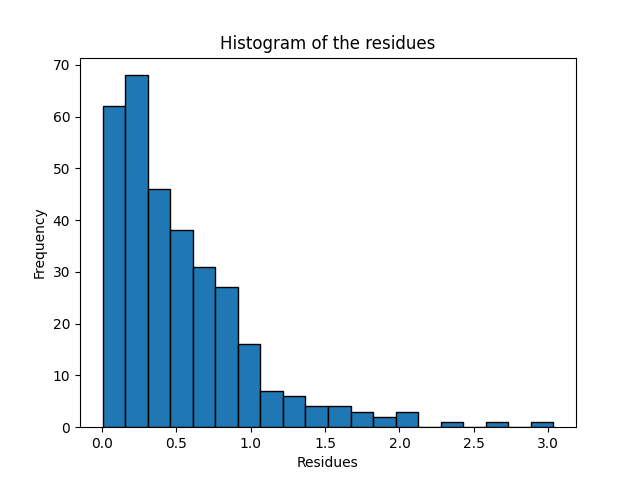
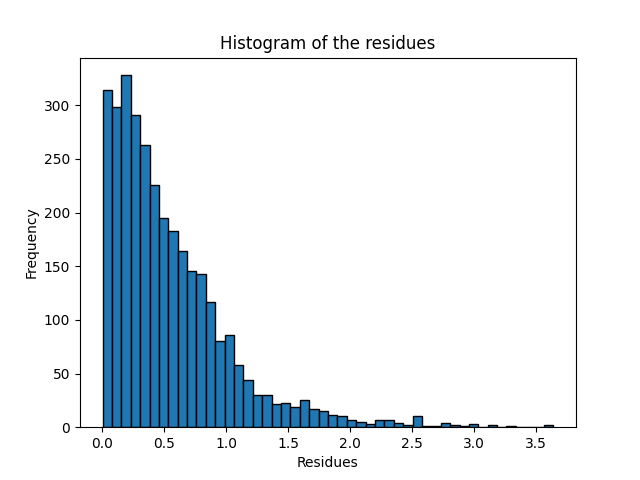
1 acabado no programming e no notebook

diff --git a/Homework3/programming.py b/Homework3/programming.py
@@ -15,7 +15,7 @@ variables_train, variables_test, target_train, target_test= train_test_split(var
 
 ######### Exercise 1 ##########
 
-residues = pd.Series()
+residues = np.array([])
 
 for i in range(1, 11):
     # Learn the MLP regressor 
@@ -23,19 +23,18 @@ for i in range(1, 11):
     #Predict output
     y_pred = mlp.fit(variables_train,target_train).predict(variables_test)
     #Calculate residues
-    print('y_pred shape: ',y_pred.shape)
-    print('target shape: ',target_test.shape)
-    residue = target_test - y_pred
+    residue = abs(target_test - y_pred)
+    residue = residue.to_numpy()
+    residues = np.append(residues, residue)
     
 
-print(residues.shape)
-# Plot all the residues
-# plt.hist(residues, edgecolor='black',bins=20)
-# plt.title('Histogram of the residues')
-# plt.xlabel('Residues')
-# plt.ylabel('Frequency')
-# plt.savefig('ex1_histogram.png')
-# plt.show()
+#Plot all the residues
+plt.hist(residues, edgecolor='black',bins='auto')
+plt.title('Histogram of the residues')
+plt.xlabel('Residues')
+plt.ylabel('Frequency')
+plt.savefig('ex1_histogram.png')
+plt.show()
 
 # ########## Exercise 2 ##########
 
